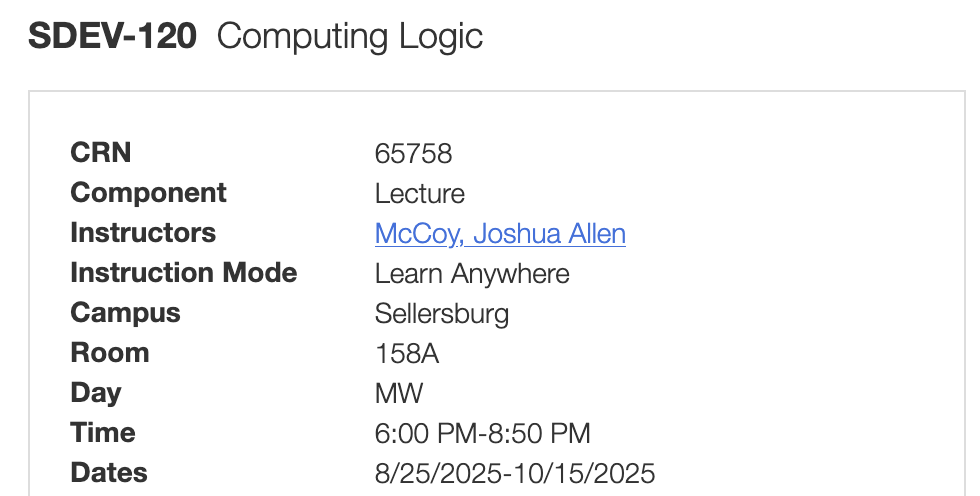
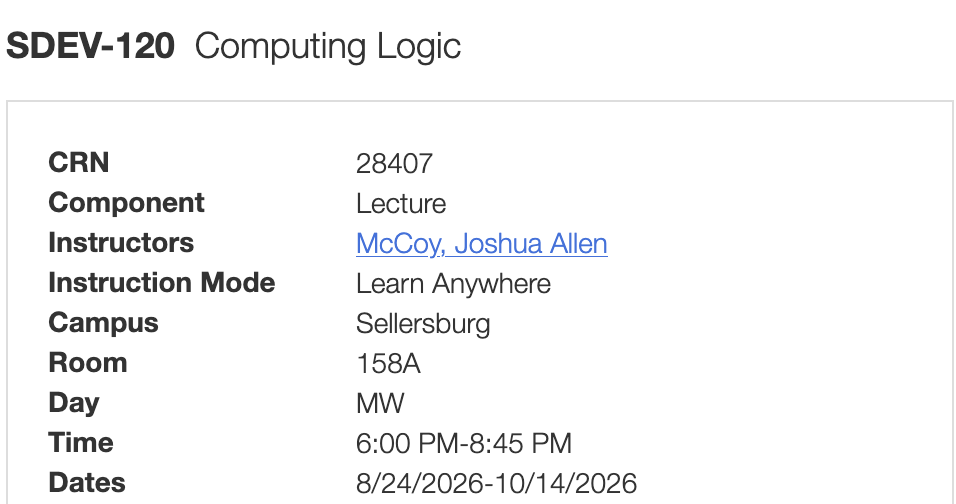
Updated SDEV120 Class info

diff --git a/SDEV120/README.MD b/SDEV120/README.MD
@@ -2,16 +2,16 @@
 
 
 
-| Week / Module | Mon                        | Wed        | Learning Objectives ID's                               | Various Other Topics | Ch         |
-|---------------|----------------------------|------------|--------------------------------------------------------|----------------------|------------|
-| 1             | 8/25/2025                  | 8/27/2025  | 01 (Flowcharts, Pseudocode)                            |                      | 1          |
-| 2             | 9/1/2025 **_[LABOR DAY]_** | 9/3/2025   | 01 (Flowcharts, Pseudocode), 08 (SDLC), 04 (variables) |                      | 2          |
-| 3             | 9/8/2025                   | 9/10/2025  | 05 (HEX, BIN, DEC), 11 (logic gates), 06 (all of it)   |                      | Appendix A |
-| 4             | 9/15/2025                  | 9/17/2025  | 02 (rational operators), 03 (testing, debugging)       |                      | 3          |
-| 5             | 9/22/2025                  | 9/24/2025  | 01 (UML)                                               |                      | Appendix B |
-| 6             | 9/29/2025                  | 10/1/2025  | 02 (MORE rational operators??), 07 (lang i.e. python)  | Python               | 4          |
-| 7             | 10/6/2025                  | 10/8/2025  |                                                        | Arrays and Loops     | 5 & 6      |
-| 8             | 10/13/2025                 | 10/15/2025 | 04 (functions)                                         | Files, More Arrays   | 7 & 8      |
+| Week / Module | Mon                        | Wed        | Learning Objectives ID's                                   | Various Other Topics | Ch         |
+|---------------|----------------------------|------------|------------------------------------------------------------|----------------------|------------|
+| 1             | 8/24/2026                  | 8/26/2026  | 01 (Flowcharts, Pseudocode)                                |                      | 1          |
+| 2             | 8/31/2026                  | 9/2/2026   | 01 (Flowcharts, Pseudocode), 08 (SDLC), 04 (variables), 10 |                      | 2          |
+| 3             | 9/7/2026 **_[LABOR DAY]_** | 9/9/2026   | 05 (HEX, BIN, DEC), 11 (logic gates), 06 (all of it)       |                      | Appendix A |
+| 4             | 9/14/2026                  | 9/16/2026  | 02 (rational operators), 03 (testing, debugging)           |                      | 3          |
+| 5             | 9/21/2026                  | 9/23/2026  | 01 (UML)                                                   |                      | Appendix B |
+| 6             | 9/28/2026                  | 9/30/2026  | 02 (MORE rational operators??), 07 (lang i.e. python)      | Python               | 4          |
+| 7             | 10/5/2026                  | 10/7/2026  | 9                                                          | Arrays and Loops     | 5 & 6      |
+| 8             | 10/12/2026                 | 10/14/2026 | 04 (functions)                                             | Files, More Arrays   | 7 & 8      |
 
 
 
@@ -25,13 +25,23 @@
 ID:
 
 _01 - Demonstrate the usage of Flowcharts, Pseudocode, and UML (Unified Modeling Language) diagrams to visualize/express algorithms and document system and software design.
+
 _02 - Utilize logical and relational operators, control structures (sequence, selection, and repetition) and modularity to design and implement algorithms as simple programs.
+
 _03 - Apply a variety of strategies to test and debug simple programs.
+
 _04 - Analyze and explain the behavior of simple programs that utilize variables, expressions, assignments, I/O, control structures, and functions.
+
 _05 - Apply base numbering systems techniques to convert numeric data  between binary, decimal and hexadecimal.
+
 _06 - Illustrate the applications of hex and binary numbers within computing, including representation of numeric data (integer and real numbers), character values (ASCII/Unicode), data storage, hardware(/memory addresses MAC  addresses), networking (addressing/masking), color codes, images, sound, and video.
+
 _07 - Identify the uses of various programming and scripting languages in computer systems.
+
 _08 - Compare/contrast various software/system development methodologies including SDLC, Iterative, and Prototyping.
-        09 - Discuss the concepts and justifications for using secure programming and secure design techniques.
-        10 - Describe the components of a simple Von Neumann computer architecture.
+
+_09 - Discuss the concepts and justifications for using secure programming and secure design techniques.
+
+_10 - Describe the components of a simple Von Neumann computer architecture.
+
 _11 - Explore the use of logic gates (AND, OR, NOT, NAND, NOR, XOR, and XNOR) and combining logic gates to create/simulate simple logic circuits.
